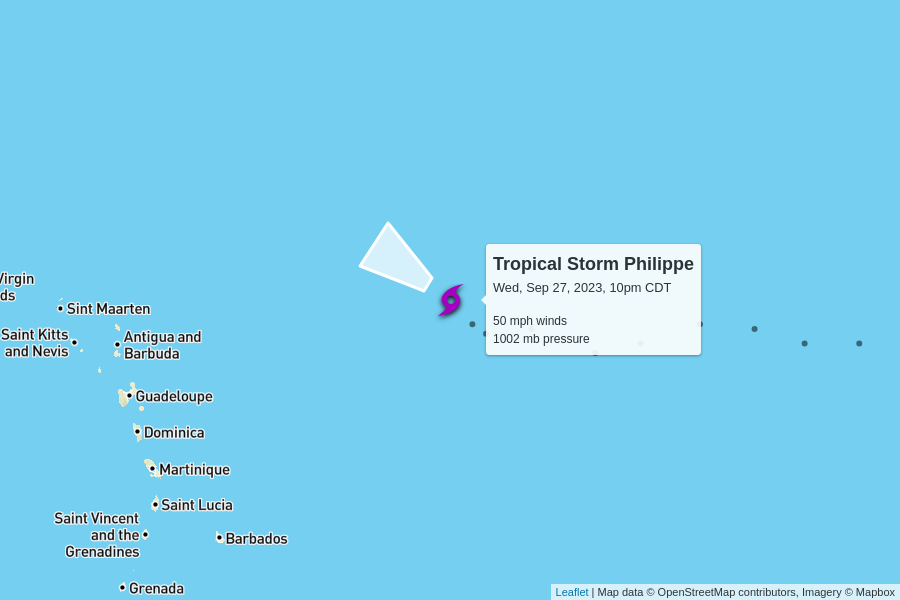
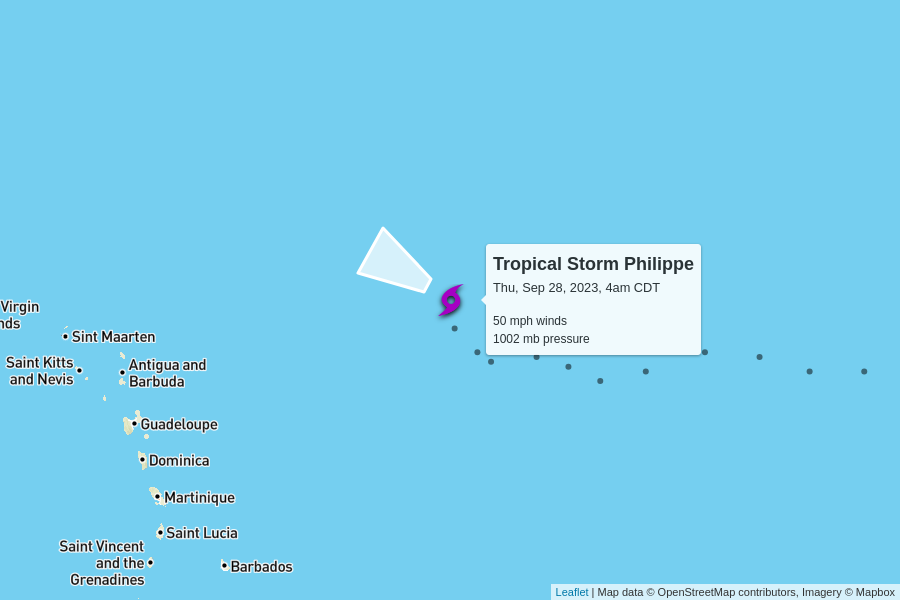
automatic update

diff --git a/docs/index.html b/docs/index.html
@@ -102,7 +102,7 @@
         <td colspan="6" class="storm category-0" >
           <h2>
             Tropical Storm Philippe
-            <p class="updated">last updated <span data-time>2023-09-28T03:00:00.000Z</span></p>
+            <p class="updated">last updated <span data-time>2023-09-28T09:00:00.000Z</span></p>
           </h2>
         </td>
       </tr>
@@ -118,11 +118,11 @@
       <tr>
         <td class="spacer"></td>
         <td>50 mph<br>0 mph since last update</td>
-        <td>1002 mb<br>+4 mb since last update</td>
+        <td>1002 mb<br>0 mb since last update</td>
         <td>
-          8 mph to the northwest
+          5 mph to the west-northwest
           <br/>
-          <span style="display: inline-block; font-size: 1.5em; transform: rotate(305deg);">↑</span>
+          <span style="display: inline-block; font-size: 1.5em; transform: rotate(300deg);">↑</span>
         </td>
         <td><a href="https://raw.githubusercontent.com/mgwalker/atlantic-hurricanes/main/data/csv/AL172023.csv">AL172023.csv</a></td>
         <td><a href="https://www.nhc.noaa.gov/archive/2023/PHILIPPE.shtml?">NHC advisories</a></td>
